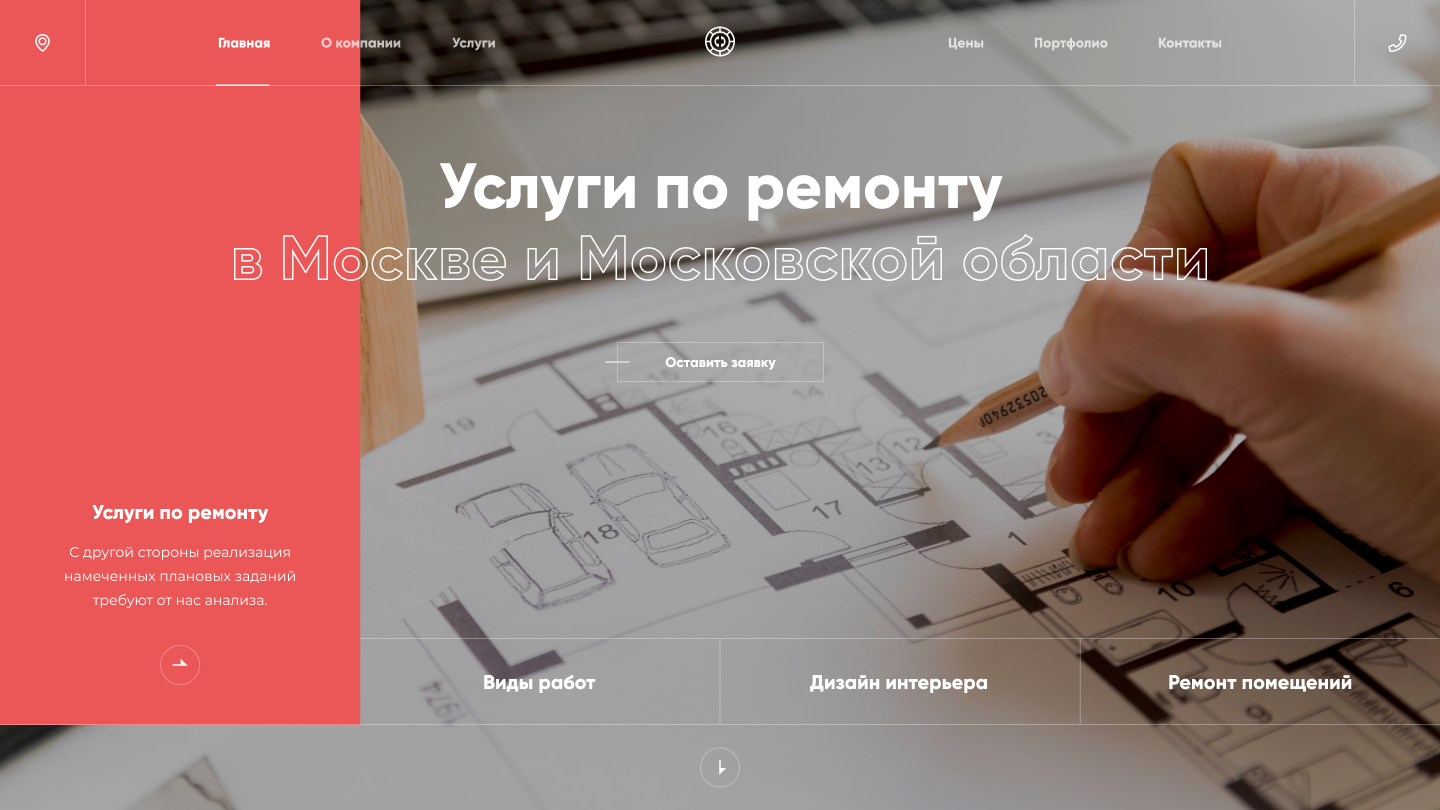
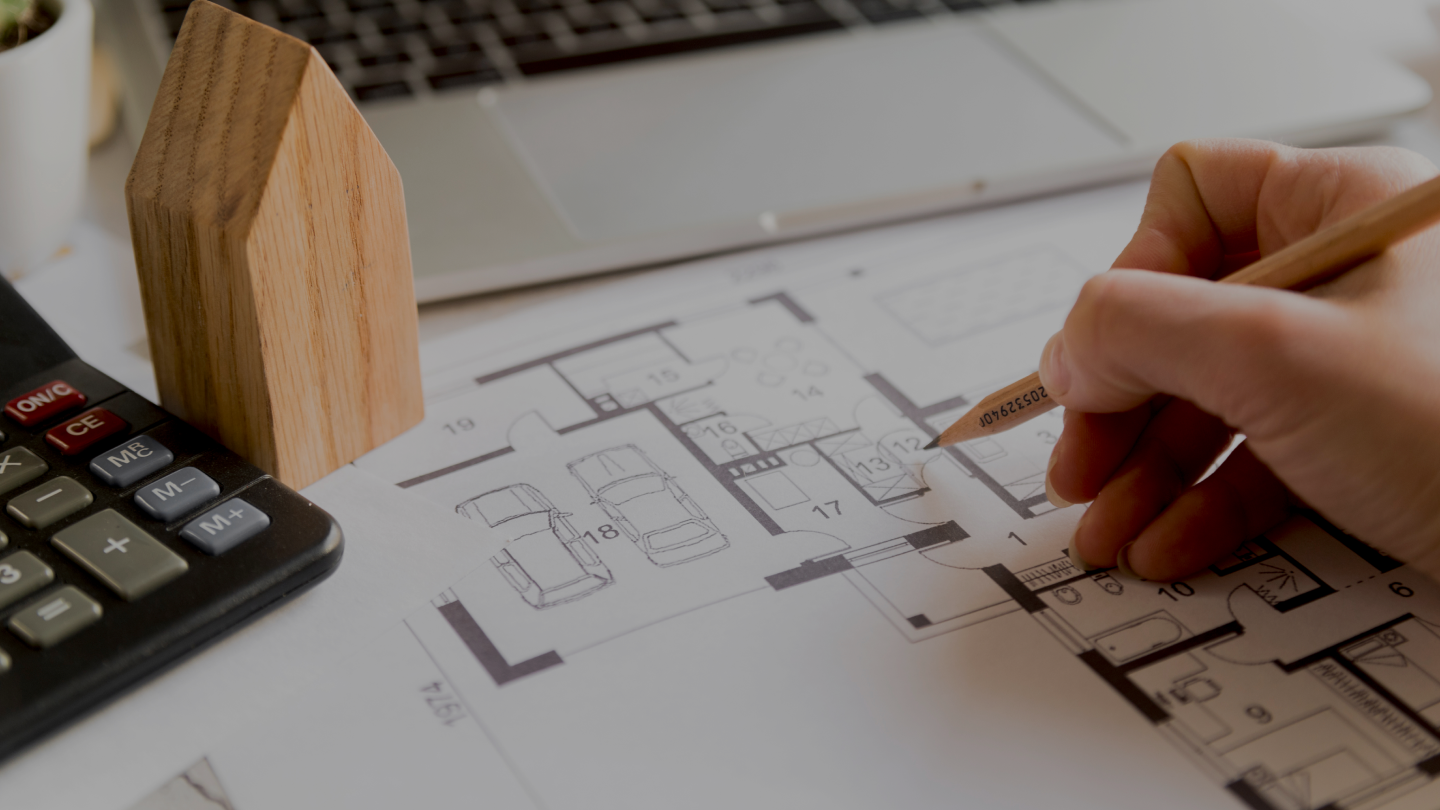
add hover-1

diff --git a/components/main_header/Header.tsx b/components/main_header/Header.tsx
@@ -1,31 +1,46 @@
-export default function Header() {
+interface HeaderProps {
+  hoveredItem: string | null;
+}
+
+export default function Header({ hoveredItem }: HeaderProps) {
+  const isHovered = hoveredItem === 'repair';
+
   return (
     <>
-      <header className='w-full max-w-[1440px] h-[86px] border border-[#D4D4D4] mx-auto grid grid-cols-[60px_1fr_60px] md:grid-cols-[86px_1fr_86px]'>
+      <header className='w-full max-w-[1440px] h-[86px] border border-[#D4D4D4] mx-auto grid grid-cols-[60px_1fr_60px] md:grid-cols-[86px_1fr_86px] group'>
         <div className='h-[60px] md:h-[86px] border-r border-[#D4D4D4] flex items-center justify-center'>
-          <img
-            src='/icon/map.svg'
-            alt='Map Icon'
-            className='w-[24px] h-[24px] md:w-[15px] md:h-[18px]'
-          />
+          <div className='cursor-pointer p-2'>
+            <img
+              src='/icon/map.svg'
+              alt='Map Icon'
+              className={`w-[24px] h-[24px] md:w-[15px] md:h-[18px] transition-all 
+                ${isHovered ? 'brightness-0 invert' : ''}`}
+            />
+          </div>
         </div>
 
-        <div className='hidden md:flex items-center justify-center max-w-[1004px] h-full mx-auto w-full relative group'>
+        <div className='hidden md:flex items-center justify-center max-w-[1004px] h-full mx-auto w-full relative'>
           <nav className='absolute left-1/2 top-1/2 -translate-x-1/2 -translate-y-1/2 flex items-center justify-between w-full'>
             <div className='flex gap-8 min-w-[100px]'>
               <a
                 href='/'
-                className='text-gray-800 hover:text-gray-500 hover:font-bold transition-all min-w-[100px]'>
+                className={`${
+                  isHovered ? 'text-white' : 'text-gray-800'
+                } hover:font-bold transition-all min-w-[100px]`}>
                 Главная
               </a>
               <a
                 href='/about'
-                className='text-gray-800 hover:text-gray-500 hover:font-bold whitespace-nowrap transition-all min-w-[100px]'>
+                className={`${
+                  isHovered ? 'text-white' : 'text-gray-800'
+                } hover:font-bold whitespace-nowrap transition-all min-w-[100px]`}>
                 О компании
               </a>
               <a
                 href='/services'
-                className='text-gray-800 hover:text-gray-500 hover:font-bold transition-all min-w-[100px]'>
+                className={`${
+                  isHovered ? 'text-white' : 'text-gray-800'
+                } hover:font-bold transition-all min-w-[100px]`}>
                 Услуги
               </a>
             </div>
@@ -33,23 +48,33 @@ export default function Header() {
             <img
               src='/icon/logo.svg'
               alt='Palladium Lab Logo'
-              className='h-[30px] group-hover:[filter:brightness(0)_saturate(100%)_invert(14%)_sepia(92%)_saturate(6329%)_hue-rotate(0deg)_brightness(112%)_contrast(93%)] transition-all'
+              className={`h-[30px] transition-all ${
+                isHovered
+                  ? 'brightness-0 invert'
+                  : 'group-hover:[filter:brightness(0)_saturate(100%)_invert(27%)_sepia(91%)_saturate(7471%)_hue-rotate(357deg)_brightness(95%)_contrast(117%)]'
+              }`}
             />
 
             <div className='flex gap-8'>
               <a
                 href='/prices'
-                className='text-gray-800 hover:text-gray-500 hover:font-bold transition-all min-w-[100px]'>
+                className={`${
+                  isHovered ? 'text-white' : 'text-gray-800'
+                } hover:font-bold transition-all min-w-[100px]`}>
                 Цены
               </a>
               <a
                 href='/portfolio'
-                className='text-gray-800 hover:text-gray-500 hover:font-bold transition-all min-w-[100px]'>
+                className={`${
+                  isHovered ? 'text-white' : 'text-gray-800'
+                } hover:font-bold transition-all min-w-[100px]`}>
                 Портфолио
               </a>
               <a
                 href='/contacts'
-                className='text-gray-800 hover:text-gray-500 hover:font-bold transition-all min-w-[100px]'>
+                className={`${
+                  isHovered ? 'text-white' : 'text-gray-800'
+                } hover:font-bold transition-all min-w-[100px]`}>
                 Контакты
               </a>
             </div>
@@ -57,7 +82,14 @@ export default function Header() {
         </div>
 
         <div className='h-[60px] md:h-[86px] border-l border-[#D4D4D4] flex items-center justify-center'>
-          <img src='/icon/phone.svg' alt='Phone Icon' className='w-6 h-6 md:w-[18px] md:h-[18px]' />
+          <div className='cursor-pointer p-2'>
+            <img
+              src='/icon/phone.svg'
+              alt='Phone Icon'
+              className={`w-6 h-6 md:w-[18px] md:h-[18px] transition-all 
+                ${isHovered ? 'brightness-0 invert' : ''}`}
+            />
+          </div>
         </div>
       </header>
     </>

diff --git a/components/main_header/MainHeader.tsx b/components/main_header/MainHeader.tsx
@@ -1,5 +1,6 @@
 'use client';
 
+import { useState } from 'react';
 import { UiButton } from '../ui/ui_button';
 import { UiLine } from '../ui/ui_line';
 import { buttonStyles } from './constants';
@@ -7,10 +8,17 @@ import Header from './Header';
 import Image from 'next/image';
 
 export default function MainHeader() {
+  const [hoveredItem, setHoveredItem] = useState<string | null>(null);
+
   return (
-    <header className=''>
+    <header
+      className={`relative ${
+        hoveredItem === 'repair'
+          ? "bg-[url('/main_full_screen_1.png')] bg-cover bg-center bg-no-repeat max-w-[1440px] mx-auto"
+          : ''
+      }`}>
       <div className=''>
-        <Header />
+        <Header hoveredItem={hoveredItem} />
       </div>
       <div className='mt-16 min-h-[143px] min-w-[981px] mx-auto'>
         <span className='font-gilroy font-extrabold text-[64px] leading-[74px]'>
@@ -43,11 +51,25 @@ export default function MainHeader() {
           </UiButton>
         </div>
       </div>
-      <div className='relative mt-[84px] w-full max-w-[1440px] mx-auto px-4'>
+      <div className='relative mt-[84px] w-full max-w-[1440px] mx-auto'>
+        <div className='relative h-[344px]'>
+          <Image
+            src='/mini_menu_image.png'
+            alt='Menu background'
+            width={1440}
+            height={344}
+            className={`absolute w-full h-full object-cover transition-opacity duration-300 ${
+              hoveredItem === 'repair' ? 'opacity-0' : 'opacity-100'
+            }`}
+          />
+        </div>
         <div
-          className='absolute top-[200px] w-full grid grid-cols-2 md:grid-cols-4 
+          className='absolute top-[200px] left-0 right-0 grid grid-cols-2 md:grid-cols-4 
           border border-[#FFFFFF] divide-x divide-[#FFFFFF]'>
-          <div className='text-center p-2 md:p-4 flex items-center justify-center'>
+          <div
+            className='text-center p-2 md:p-4 flex items-center justify-center'
+            onMouseEnter={() => setHoveredItem('repair')}
+            onMouseLeave={() => setHoveredItem(null)}>
             <span className='font-gilroy text-base md:text-[20px] font-bold leading-tight md:leading-[24.5px] text-white'>
               Услуги по ремонту
             </span>
@@ -67,15 +89,6 @@ export default function MainHeader() {
               Ремонт помещений
             </span>
           </div>
-        </div>
-        <div className='flex justify-center'>
-          <Image
-            src='/mini_menu_image.png'
-            alt='Menu background'
-            width={1440}
-            height={344}
-            className='w-full h-auto object-cover'
-          />
         </div>
         <div className='absolute top-[282px] left-[50%] -translate-x-1/2'>
           <img

diff --git a/app/layout.tsx b/app/layout.tsx
@@ -13,8 +13,8 @@ export default function RootLayout({ children }: { children: React.ReactNode }) 
     <html lang='ru'>
       <body>
         <main>{children}</main>
-        <Portfolio />
-        <Footer />
+        {/* <Portfolio />
+        <Footer /> */}
       </body>
     </html>
   );
